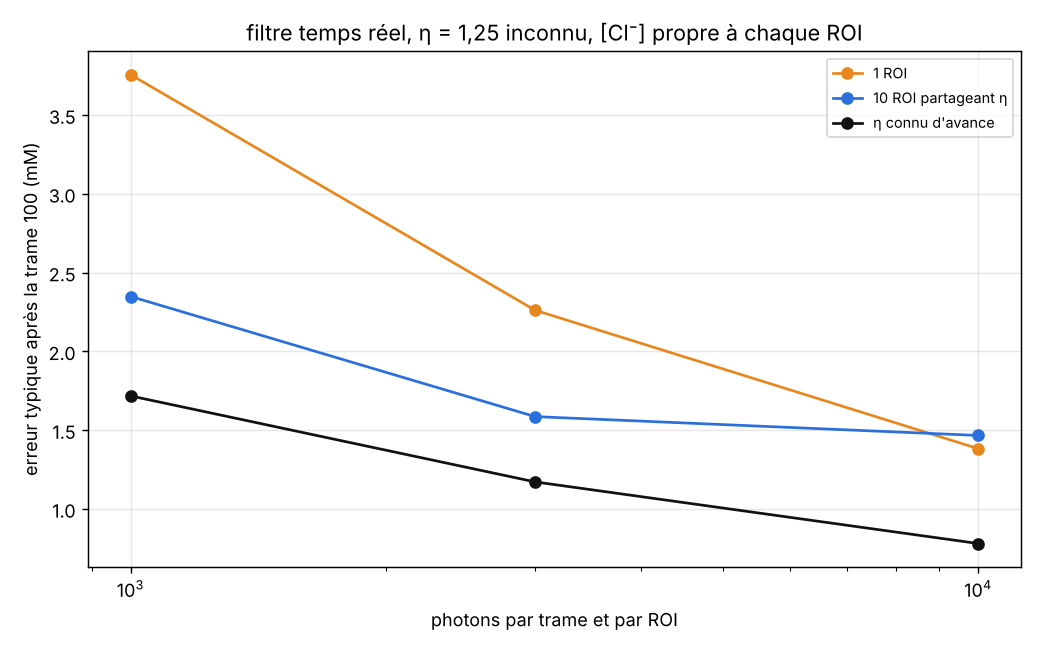
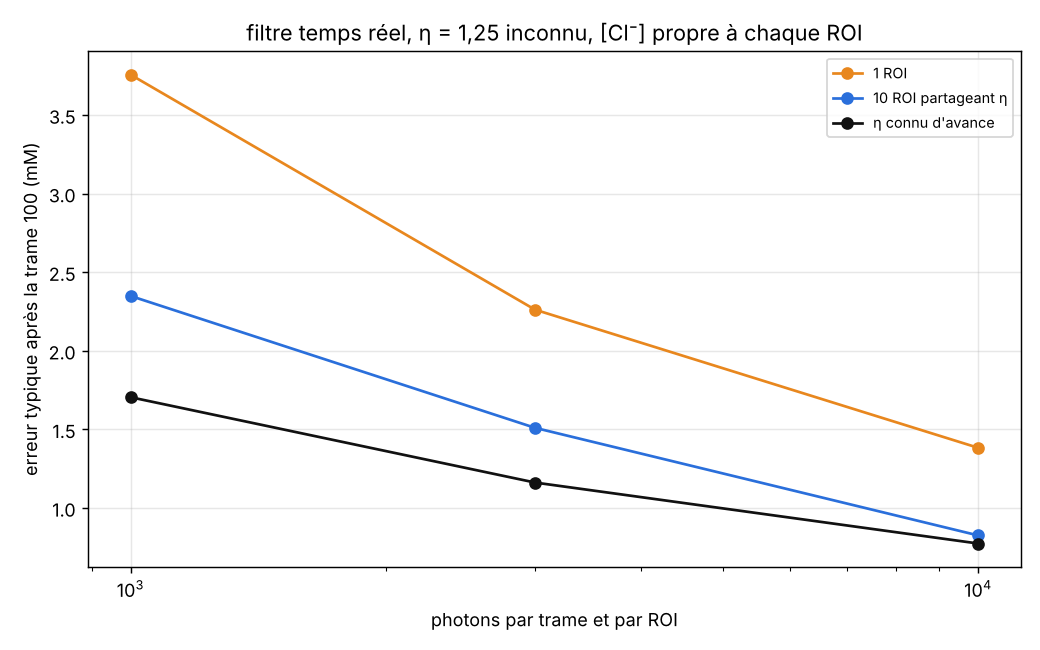
Filtre temps réel : η n'est plus jamais figé
Retire la bascule de la section 14 (η figé et filtre sur le ratio seul une
fois sd(ln η) < 1 %) : elle figeait η sur un biais pendant la ligne de base.
η est mis à jour à chaque trame ; la référence « η connu » fait la même mise
à jour, grille de η réduite à une valeur. Courses relancées pour SCLM_mCer3 et
SCLM : seule la partie 4 change (10 ROI à 10 000 photons, mCer3 : 1,47 →
0,82 mM, η 1,224 → 1,247). Les boxplots n'utilisent pas ce filtre.

Claude-Session: https://claude.ai/code/session_01U2xoFT143KTtzHRKKDNs8t

diff --git a/Simulateurs/bayesian_filter/src/filtre.py b/Simulateurs/bayesian_filter/src/filtre.py
@@ -6,7 +6,8 @@ Vraisemblance d'une trame (section 11), A profilé, découpage exact « combien 
                + Σ_i n_B,i ln p_B,i(c) + Σ_i n_Y,i ln p_Y,i(c)                   FLIM  : dépend de c seulement
 Filtre dans le temps (section 13) : prédiction par le noyau K (marche aléatoire sur ln c avec sauts rares), puis
 mise à jour bayésienne ; lissage avant-arrière hors ligne. Version temps réel (section 14) : η statique partagé par
-M ROI, p(c_1..c_M, η) = p(η) Π_m p(c_m | η), portes temporelles, bascule vers un filtre sur le ratio seul.
+M ROI, p(c_1..c_M, η) = p(η) Π_m p(c_m | η), portes temporelles. η n'est jamais figé : la bascule de la section 14
+(filtre léger sur le ratio seul une fois sd(ln η) < 1 %) a été retirée, elle figeait η sur un biais.
 
 Fond (absent du document, présent dans les données : ~2,3 % du bleu) : facultatif, en photons par case et par trame,
 supposé connu. Il est soustrait des totaux (« fond soustrait », section 7) et ajouté aux formes :
@@ -144,17 +145,16 @@ class FiltreTempsReel:
     Filtre causal exact pour un η statique partagé par M ROI (même profondeur) (section 14).
     Chaque ROI garde p(c | η, trames 1..k) (colonnes normalisées) ; le groupe garde ln p(η).
     ℓ_m,k(η) = Σ_c L_m,k(c, η) p(c | η, 1..k−1) ;   p(η | 1..k) ∝ p(η | 1..k−1) Π_m ℓ_m,k(η).
-    Quand sd(ln η) < bascule, η est figé et chaque ROI passe à un filtre sur c seul, nourri par N_B et N_Y.
-    eta_fixe : η connu d'avance (référence « η connu ») ; la grille de η est alors réduite à cette valeur.
+    η est mis à jour à chaque trame, jusqu'à la fin : il n'est jamais figé.
+    eta_fixe : η connu d'avance (référence « η connu ») ; la grille de η est réduite à cette valeur, la mise à jour
+    (formes et ratio) est la même.
     """
-    def __init__(self, grille, n_roi, Kc, bascule=None, eta_fixe=None):
-        self.g, self.Kc, self.bascule = grille, Kc, bascule
+    def __init__(self, grille, n_roi, Kc, eta_fixe=None):
+        self.g, self.Kc = grille, Kc
         self.eta = grille.eta if eta_fixe is None else np.array([float(eta_fixe)])
         self.P = np.full((n_roi, len(grille.c), len(self.eta)), 1.0 / len(grille.c))
         self.log_pe = np.zeros(len(self.eta))
-        self.eta_fige = float(eta_fixe) if eta_fixe is not None else None
-        self.pc = self.P[:, :, 0].copy() if eta_fixe is not None else None
-        self.k = 0; self.trame_bascule = 0 if eta_fixe is not None else None
+        self.k = 0
 
     def pe(self):
         p = np.exp(self.log_pe - self.log_pe.max()); return p / p.sum()
@@ -165,26 +165,15 @@ class FiltreTempsReel:
         B, Y = g.regrouper(np.atleast_2d(B)), g.regrouper(np.atleast_2d(Y))
         for m in range(B.shape[0]):
             NB, NY = g._sous_fond(B[m], Y[m], fond)
-            if self.eta_fige is None:
-                if self.k > 0:
-                    self.P[m] = self.Kc @ self.P[m]
-                L = g.formes(B[m], Y[m], fond)[:, None] + g.ratio(NB, NY, self.eta)
-                Q = self.P[m] * np.exp(L - L.max())
-                ell = np.maximum(Q.sum(0), 1e-300)
-                self.P[m] = Q / ell; self.log_pe += np.log(ell)
-            else:
-                if self.k > 0:
-                    self.pc[m] = self.Kc @ self.pc[m]
-                L = g.ratio(NB, NY, self.eta_fige)[:, 0]
-                q = self.pc[m] * np.exp(L - L.max()); self.pc[m] = q / q.sum()
+            if self.k > 0:
+                self.P[m] = self.Kc @ self.P[m]
+            L = g.formes(B[m], Y[m], fond)[:, None] + g.ratio(NB, NY, self.eta)
+            Q = self.P[m] * np.exp(L - L.max())
+            ell = np.maximum(Q.sum(0), 1e-300)
+            self.P[m] = Q / ell; self.log_pe += np.log(ell)
         self.log_pe -= self.log_pe.max()
         pe = self.pe(); eta_m, eta_sd = resume_eta(pe, self.eta)
-        if self.eta_fige is None:
-            pc = np.einsum('mce,e->mc', self.P, pe)
-            if self.bascule is not None and eta_sd < self.bascule:
-                self.eta_fige, self.pc, self.trame_bascule = float(eta_m), pc.copy(), self.k
-        else:
-            pc = self.pc
+        pc = np.einsum('mce,e->mc', self.P, pe)
         self.k += 1
         m_, lo, hi = resume_c(pc, g.c)
         return dict(c=m_, bas=lo, haut=hi, eta=float(eta_m), eta_sd=float(eta_sd))

diff --git a/Simulateurs/bayesian_filter/run.py b/Simulateurs/bayesian_filter/run.py
@@ -183,8 +183,8 @@ def temps_reel(S, g_portes, g_cases, p, rng):
         for r in range(reps):
             C = trajectoires_roi(rng, M, T)
             H = [[trame_modele(S, C[m, k], N, rng, q['eta']) for m in range(M)] for k in range(T)]
-            variantes = {'1 ROI': [FiltreTempsReel(g_portes, 1, Kc, f['bascule_sd_ln_eta']) for _ in range(M)],
-                         f'{M} ROI partageant η': [FiltreTempsReel(g_portes, M, Kc, f['bascule_sd_ln_eta'])],
+            variantes = {'1 ROI': [FiltreTempsReel(g_portes, 1, Kc) for _ in range(M)],
+                         f'{M} ROI partageant η': [FiltreTempsReel(g_portes, M, Kc)],
                          'η connu d\'avance': [FiltreTempsReel(g_cases, M, Kc, eta_fixe=q['eta'])]}
             for nom, filtres in variantes.items():
                 est = np.zeros((M, T)); duree = 0.0; etas = []
@@ -198,10 +198,8 @@ def temps_reel(S, g_portes, g_cases, p, rng):
                         x = filtres[0].mettre_a_jour(B, Y); est[:, k] = x['c']; etas = [(x['eta'], x['eta_sd'])]
                     duree += time.perf_counter() - t0
                 rmse = np.sqrt(np.mean((est[:, deb:] - C[:, deb:]) ** 2))
-                bascules = [fl.trame_bascule for fl in filtres]
                 lignes.append(dict(photons=N, repetition=r + 1, variante=nom, rmse_mM=rmse,
                                    eta_moyen=np.mean([x[0] for x in etas]), eta_sd_pct=100 * np.mean([x[1] for x in etas]),
-                                   bascule_trame=np.mean([b for b in bascules if b is not None]) if any(b is not None for b in bascules) else np.nan,
                                    ms_par_roi_trame=1e3 * duree / T / M))
     ecrire('temps_reel', lignes)
     D = pd.DataFrame(lignes).groupby(['photons', 'variante'], sort=False).mean(numeric_only=True).reset_index()
@@ -210,7 +208,7 @@ def temps_reel(S, g_portes, g_cases, p, rng):
     for _, x in D.iterrows():
         j = list(D.variante.unique()).index(x.variante)
         dire(f"  {x.photons:6.0f} photons, {x.variante:<22s} RMSE {x.rmse_mM:5.2f} mM (document {doc.get((x.photons, j), np.nan):.1f})"
-             f" | η {x.eta_moyen:.3f} ± {x.eta_sd_pct:.1f} % | bascule à la trame {x.bascule_trame:5.0f} | {x.ms_par_roi_trame:.2f} ms/ROI/trame")
+             f" | η {x.eta_moyen:.3f} ± {x.eta_sd_pct:.1f} % | {x.ms_par_roi_trame:.2f} ms/ROI/trame")
     ecrire('temps_reel_resume', D.to_dict('records'))
     return D
 

diff --git a/Simulateurs/bayesian_filter/test/run_tests.py b/Simulateurs/bayesian_filter/test/run_tests.py
@@ -127,14 +127,16 @@ def filtre_temps_reel_retrouve_eta():
 
 
 @test
-def bascule_puis_ratio_seul():
+def eta_jamais_fige():
+    """5 ROI, 10 000 photons, 150 trames : η reste mis à jour (sa distribution bouge encore à la dernière trame)."""
     rng = np.random.default_rng(4)
     K = transition(np.log(G.c), F['s'], F['s_saut'], F['w'])
-    fl = FiltreTempsReel(G, 5, K, bascule=0.02)
+    fl = FiltreTempsReel(G, 5, K)
     for _ in range(150):
+        avant = fl.pe().copy()
         H = [trame_modele(S, 10.0, 10000, rng, 1.25) for _ in range(5)]
-        fl.mettre_a_jour(np.array([h[0] for h in H]), np.array([h[1] for h in H]))
-    assert fl.eta_fige is not None and fl.trame_bascule < 150
+        x = fl.mettre_a_jour(np.array([h[0] for h in H]), np.array([h[1] for h in H]))
+    assert not hasattr(fl, 'eta_fige') and np.abs(fl.pe() - avant).max() > 0 and x['eta_sd'] < 0.01
 
 
 @test

diff --git a/Simulateurs/bayesian_filter/README.md b/Simulateurs/bayesian_filter/README.md
@@ -51,19 +51,19 @@ leurs histogrammes sommés, versionnés par `step17_bruts_mCer3.jl` (`irf_bruts_
 
 | Fichier | Rôle | lignes |
 | --- | --- | --- |
-| `params.toml` | le seul endroit pour les constantes (données, grilles, transition, scénarios, graine, boxplots) ; SCLM_mCer3 | 121 |
-| `params_SCLM.toml` | les mêmes, pour la titration SCLM régulière à 800 nm | 94 |
+| `params.toml` | le seul endroit pour les constantes (données, grilles, transition, scénarios, graine, boxplots) ; SCLM_mCer3 | 120 |
+| `params_SCLM.toml` | les mêmes, pour la titration SCLM régulière à 800 nm | 93 |
 | `step0_calibration.py` | le pont unique avec les données : appelle le `sclm_hybride.py` du jeu, écrit sa calibration (`calibrer` sert aussi à boxplots.py) | 86 |
 | `calibration.json`, `calibration_SCLM.json` | la calibration ajustée (constantes, isothermes, IRF, fonds et décalages par acquisition) ; écrites par step0 | — |
 | `src/modele.py` | modèle direct μ_B, μ_Y (sections 3 à 7) : IRF ⊗ déclins périodiques, isothermes, η, A ; perturbations | 137 |
-| `src/filtre.py` | vraisemblance découpée ratio / FLIM (section 11), grille (c, η), transition, filtre et lisseur (13), temps réel à M ROI, portes et bascule (14), lectures de référence | 190 |
+| `src/filtre.py` | vraisemblance découpée ratio / FLIM (section 11), grille (c, η), transition, filtre et lisseur (13), temps réel à M ROI et portes (14 ; η jamais figé), lectures de référence | 179 |
 | `src/information.py` | Fisher et Cramér-Rao, nuisances par complément de Schur (section 10) | 50 |
 | `src/simulation.py` | les deux générateurs (lit les colonnes voie1/voie2 de step17 et bleu/jaune de step16), les trajectoires des sections 14 et 15 | 97 |
 | `src/figures.py` | rendu | 163 |
 | `src/estimateurs.py` | les 4 lectures d'un échantillon (temps de vie unique, FLIM du système, ratio, hybride à η du contexte), en bloc | 98 |
 | `boxplots.py` | partage des .sdt, calibration sur une moitié, échantillons et contextes tirés de l'autre (η = 1 ou variable), boxplots | 173 |
-| `run.py` | la course en 8 parties ; un CSV par partie, `journal.txt`, 5 figures | 398 |
-| `test/run_tests.py` | 13 vérifications : calibration = annexe, découpage exact, portes (93,7 % de l'information FLIM gardée), η retrouvé, bascule, couverture du lisseur, amincissement | 165 |
+| `run.py` | la course en 8 parties ; un CSV par partie, `journal.txt`, 5 figures | 396 |
+| `test/run_tests.py` | 13 vérifications : calibration = annexe, découpage exact, portes (93,7 % de l'information FLIM gardée), η retrouvé, η jamais figé, couverture du lisseur, amincissement | 167 |
 
 ## Sorties (`sorties/` pour SCLM_mCer3, `sorties_SCLM/` pour SCLM régulier)
 
@@ -97,15 +97,19 @@ deux canaux sur le FLIM bleu −9,50 contre −9,6 ; durées de vie 5 % plus cou
 η final 1,244 ± 0,021 ; couverture des intervalles à 95 % : 96 % (filtre), 98 % (lissé). Le document montre un seul
 tirage ; ici, celui de `fig_exemple.png` (répétition 1) finit à η = 1,222, d'où un biais de −1,1 mM sur ce tirage-là.
 
-**Section 14 (300 trames, η = 1,25 inconnu, 3 répétitions).** Erreur typique après la trame 100, en mM :
+**Section 14 (300 trames, η = 1,25 inconnu, 3 répétitions).** Erreur typique après la trame 100, en mM. η est mis à
+jour à chaque trame jusqu'à la fin : la bascule du document (η figé et filtre sur le ratio seul une fois
+sd(ln η) < 1 %) est retirée (voir le point 2 plus bas) ; la référence « η connu » fait la même mise à jour, formes
+comprises, avec la grille de η réduite à 1,25.
 
 | photons par trame | 1 ROI | 10 ROI partageant η | η connu |
 | --- | --- | --- | --- |
-| 1 000 | 3,76 (2,6) | 2,35 (2,5) | 1,72 (1,7) |
-| 3 000 | 2,26 (1,5) | 1,59 (1,4) | 1,17 (1,1) |
-| 10 000 | 1,38 (1,5) | **1,47 (0,9)** | 0,78 (0,8) |
+| 1 000 | 3,76 (2,6) | 2,35 (2,5) | 1,70 (1,7) |
+| 3 000 | 2,26 (1,5) | 1,51 (1,4) | 1,16 (1,1) |
+| 10 000 | 1,38 (1,5) | 0,82 (0,9) | 0,77 (0,8) |
 
-Coût : 0,6 ms par ROI et par trame sur la grille 260 × 61, 0,2 à 0,3 ms avec les portes et la bascule.
+η final pour 10 ROI : 1,215 ± 1,1 %, 1,226 ± 0,5 %, 1,247 ± 0,4 % à 1 000, 3 000, 10 000 photons. Coût : 0,6 à 1 ms par
+ROI et par trame avec les portes (la bascule le ramenait à 0,2 ms, au prix d'un η figé).
 
 ## Ce que la simulation apprend en plus du document
 
@@ -116,9 +120,11 @@ Coût : 0,6 ms par ROI et par trame sur la grille 260 × 61, 0,2 à 0,3 ms avec 
    η revenait à 1,24–1,26.
    Le module de référence (`sclm_hybride.py`, `demo_temps_reel`) fait la même chose : 1,21 à 1 000 photons pour trois
    graines, et 1,231 à 1,250 à 3 000 photons (le 1,250 ± 1,0 % du document est la graine 0).
-2. **La bascule à 1 % fige η trop tôt.** À 10 000 photons, sd(ln η) passe sous 1 % vers la trame 40, pendant la ligne de
-   base, alors que l'effet ci-dessus tire encore η vers le bas : η est figé à 1,21–1,23 dans les trois répétitions, et
-   10 ROI font moins bien qu'une seule (1,47 contre 1,38 mM). La sd a posteriori ne voit pas ce biais.
+2. **La bascule à 1 % figeait η trop tôt ; elle est retirée.** À 10 000 photons, sd(ln η) passait sous 1 % vers la
+   trame 40, pendant la ligne de base, alors que l'effet ci-dessus tirait encore η vers le bas : η restait figé à
+   1,21–1,23, et 10 ROI faisaient moins bien qu'une seule (1,47 contre 1,38 mM). Sans bascule, η continue d'apprendre
+   pendant les réponses et finit à 1,247 ; 10 ROI rejoignent la référence η connu (0,82 contre 0,77 mM). L'effet du
+   point 1 reste visible à 3 000 photons : η = 1,226 ± 0,5 % (≈ 4 sd sous 1,25).
 3. **Le fond doit être dans le modèle.** Les données en ont 2,3 % dans le bleu. Ignoré, il fausse la forme du déclin :
    η +6 % et +3 à +8 mM sur les trames amincies (partie 5), +4,9 mM pour l'hybride à 10 mM (partie 6). Le filtre accepte un
    fond connu (photons par case et par trame), soustrait des totaux et ajouté aux formes.
@@ -155,16 +161,16 @@ plus vite et le filtre fait mieux :
 | --- | --- | --- |
 | section 15, temps réel / lissé (mM, 20 répétitions) | 1,45 / 0,87 | 2,13 / 1,14 |
 | section 15, η final | 1,244 ± 0,016 | 1,244 ± 0,021 |
-| section 14, 1 000 photons : 1 ROI / 10 ROI / η connu (mM) | 2,30 / 1,84 / 1,75 | 3,76 / 2,35 / 1,72 |
-| section 14, 10 000 photons : 1 ROI / 10 ROI / η connu (mM) | 0,92 / 0,75 / 0,75 | 1,38 / 1,47 / 0,78 |
+| section 14, 1 000 photons : 1 ROI / 10 ROI / η connu (mM) | 2,30 / 1,81 / 1,71 | 3,76 / 2,35 / 1,70 |
+| section 14, 10 000 photons : 1 ROI / 10 ROI / η connu (mM) | 0,89 / 0,73 / 0,73 | 1,38 / 0,82 / 0,77 |
 | η final, 1 000 photons, 10 ROI, c statique, transition du document | 1,228 | 1,176 |
 | amincissement, filtre avec fond connu, biais à 10 / 20 / 40 mM | +0,0 / −1,4 / −1,3 | −1,6 / −0,3 / −2,7 |
 | amincissement, filtre sans fond, biais à 10 / 20 / 40 mM | +2,4 / +0,7 / +1,9 | +3,3 / +6,7 / +7,9 |
 | titration relue : η du FLIM (fond ajusté) | 0,976 à 1,026 | 0,991 à 1,046 |
 
-Les points 1 et 2 ci-dessus valent encore, atténués : η reste tiré vers le bas (1,228 à 1 000 photons) ou vers le haut
-avec une transition trop raide (1,361), et la bascule fige η à 1,224 à 3 000 photons (trame 68). À 10 000 photons, 10 ROI
-rejoignent la référence η connu (0,75 mM).
+Le point 1 ci-dessus vaut encore, atténué : η reste tiré vers le bas (1,228 à 1 000 photons) ou vers le haut avec une
+transition trop raide (1,361). Sans bascule, 10 ROI font 1,81 / 1,20 / 0,73 mM à 1 000 / 3 000 / 10 000 photons
+(η connu : 1,71 / 1,12 / 0,73), contre 1,84 / 1,45 / 0,75 quand la bascule figeait η à 1,224 à 3 000 photons.
 
 **Ce qui est propre à ce jeu.** L'autofluorescence (formes illustratives) coûte bien plus à l'hybride : +10,0 mM
 (5 % du jaune) et +9,8 mM (5 % des deux canaux), contre +0,7 et −9,0 pour mCer3. L'échantillon « inconnu » (1,9 + 5,2
@@ -285,5 +291,6 @@ Médiane de |écart| (mM), ratio / hybride :
 - L'autofluorescence n'est pas modélisée dans le filtre (le document la donne corrigée « si on la modélise ») : la
   colonne « hybride » de la partie 6 en montre l'effet sans modèle, avec des formes d'autofluorescence illustratives.
 - Ni la ré-estimation des durées de vie en tranche, ni l'estimation du décalage d'horloge par le filtre, ni le temps mort.
-- Les remèdes aux points 1 et 2 (apprendre η sur une ligne de base avec une transition ajustée, bascule sur un critère
-  qui tienne compte du biais) restent à choisir.
+- Le remède au point 1 (apprendre η sur une ligne de base avec une transition ajustée) reste à choisir. Sans la
+  bascule, le filtre temps réel coûte 2 à 5 fois plus de calcul à 10 ROI ; un filtre léger ne reviendrait qu'avec un
+  critère qui tienne compte du biais de η, pas seulement de sa sd a posteriori.
